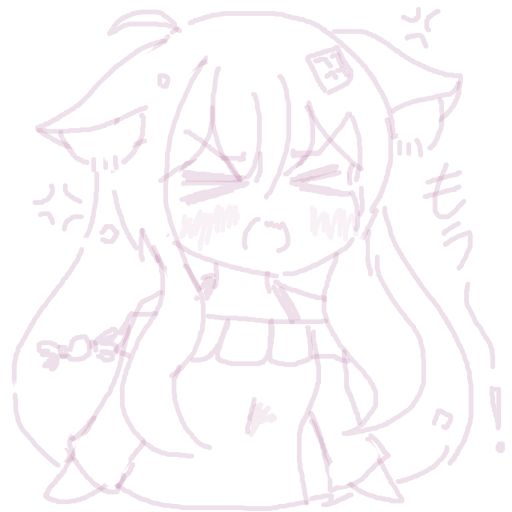
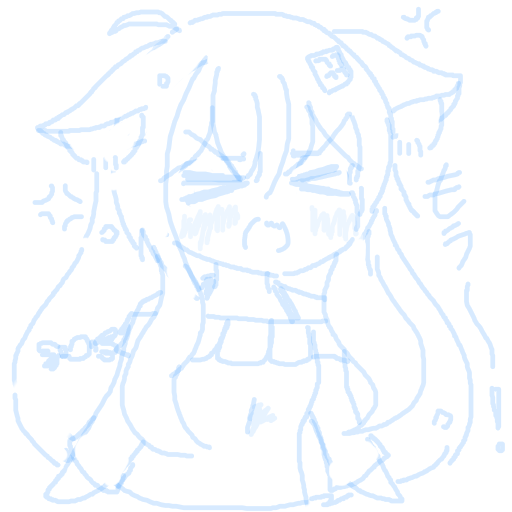
change everything to blue for no reason

diff --git a/src/styles/style.old.css b/src/styles/style.old.css
@@ -1,5 +1,16 @@
+@import url('https://fonts.googleapis.com/css2?family=Roboto:wght@100;300;500&display=swap');
+
+@font-face {
+    font-family: 'Yuruka';
+    src: local("FOT-Yuruka Std UB Black"), url('/Yuruka.ttf') format('truetype');
+}
+
 body, html {
+    background-color: #211a22;
+    background-image: linear-gradient(-225deg, #35243a, #1b171b);
+    color: #ffffff;
     min-height: 100vh;
+    font-family: 'MS PGothic', 'Roboto', sans-serif;
     padding: 0;
     margin: 0;
     box-sizing: border-box;
@@ -27,11 +38,16 @@ main {
 
 .box-container {
     z-index: 1;
+    border: #f0caf3 2px dotted;
+    background-color: #f0caf30f;
+    backdrop-filter: blur(5px);
     overflow: auto;
     padding: 0.5rem;
+    border-radius: 10px;
 
     /* firefox */
     @-moz-document url-prefix() {
+        scrollbar-color: #f0caf3 #362938;
         scrollbar-width: thin;
     }
 }
@@ -39,22 +55,27 @@ main {
 /* everyone else :P */
 ::-webkit-scrollbar {
     width: 0.5rem;
+    background-color: #dfe6e900;
 }
 
 
 ::-webkit-scrollbar-track {
     border-radius: 10px;
+    background-color: #00000000;
 }
 
 ::-webkit-scrollbar-thumb {
+    background-color: #f0caf344;
     border-radius: 10px;
 }
 
 ::-webkit-scrollbar-thumb:hover {
+    background-color: #f0caf388;
     border-radius: 10px;
 }
 
 ::-webkit-scrollbar-thumb:active {
+    background-color: #f0caf3ff;
     border-radius: 10px;
 }
 
@@ -90,16 +111,24 @@ main {
 #top-nav a {
     font-size: 1.6rem;
     padding: 0.2rem 0.4rem;
+    border: #f0caf3 1px dashed;
     text-decoration: none;
+    color: #f0caf3;
     max-height: 100%;
+    transition: font-size 0.2s;
 }
 
 #top-nav a:hover {
     font-size: 2.5rem;
+    background-color: #f0caf3;
+    color: #35243a;
+
 }
 
 #catchphrase {
+    font-family: 'Yuruka', 'MS PGothic', sans-serif;
     font-size: 0.8rem;
+    color: #726076
 }
 
 #ticker {
@@ -147,10 +176,12 @@ main {
 }
 
 .progress-border {
+    border: 1px solid #fcd4e0;
     border-radius: 5em;
 }
 
 .progress-bar {
+    background-color: #fcd4e060;
     border-radius: 5em;
     display: flex;
     justify-content: center;
@@ -160,6 +191,7 @@ main {
 
 #progress-placeholder-text {
     font-size: 0.6rem;
+    color: #fcd4e062;
 }
 
 .progress-below {
@@ -173,6 +205,7 @@ main {
 
 #contact a {
     text-decoration: none;
+    color: #ffe18f;
 }
 
 #contact a:hover {
@@ -180,8 +213,10 @@ main {
 }
 
 #commit a {
+    font-family: 'Roboto', 'MS PGothic', sans-serif;
     font-size: 1.5rem;
     font-weight: 600;
+    color: #f0caf3;
     text-decoration: none;
 }
 
@@ -193,8 +228,30 @@ main {
     font-size: 1rem;
 }
 
+#commit-date {
+    color: #b28eba
+}
+
+#commit~hr {
+    border: 1px dashed #b67dba;
+}
+
+#diff-add {
+    color: #3fb950;
+}
+
+#diff-del {
+    color: #f85149;
+}
+
+legend {
+    color: #f7ddf9;
+}
+
 textarea {
     white-space: normal;
+    background-color: #987f9b33;
+    color: #dcc5df;
     resize: none;
 }
 
@@ -210,6 +267,8 @@ textarea {
     width: 100%;
     height: 100%;
     overflow: auto;
+    background-color: #00000099;
+    backdrop-filter: blur(15px);
 }
 
 #mobile-modal {
@@ -225,6 +284,14 @@ textarea {
     overflow: auto;
     border-radius: 1em;
     padding: 1em;
+    box-shadow: 0 0 1em #fcd4e088;
+    background-color: #251723cc;
+}
+
+#ignore-mobile {
+    border: #fcd4e0 1px solid;
+    background-color: #fcd4e033;
+    padding: 0.4em;
 }
 
 #ignore-mobile-p {
@@ -239,11 +306,18 @@ textarea {
 
 #now-playing {
     display: none;
+
+    color: #ffe6f7;
+    text-shadow: 0 0 10px #fff, 0 0 20px #fff, 0 0 30px #e60073, 0 0 40px #e60073, 0 0 50px #e60073, 0 0 60px #e60073, 0 0 70px #e60073;
 }
 
 #now-playing-button {
     display: none;
     cursor: pointer;
+
+    background-color: #fcd4e022;
+    color: #ffe6f7;
+    border: #fcd4e0 1px solid;
     border-radius: 1em;
     padding: 0.5em;
     text-decoration: none;
@@ -265,6 +339,6 @@ textarea {
 }
 
 .placeholder p {
+    color: #bea2c1bb;
     text-align: center;
-}
 }

diff --git a/src/styles/theme.css b/src/styles/theme.css
@@ -1,0 +1,138 @@
+@import url('https://fonts.googleapis.com/css2?family=Roboto:wght@100;300;500&display=swap');
+
+@font-face {
+    font-family: 'Yuruka';
+    src: local("FOT-Yuruka Std UB Black"), url('/Yuruka.ttf') format('truetype');
+}
+
+body, html {
+    background-color: #030109;
+    background-image: linear-gradient(-225deg, #1e293b, #030109);
+    color: #ffffff;
+    font-family: 'MS PGothic', 'Roboto', sans-serif;
+}
+
+.box-container {
+    border: #a4d3ff 2px dotted;
+    background-color: #a4d3ff0f;
+    backdrop-filter: blur(5px);
+    border-radius: 10px;
+
+    /* firefox */
+    @-moz-document url-prefix() {
+        scrollbar-color: #a4d3ff #131b2e;
+    }
+}
+
+/* everyone else :P */
+::-webkit-scrollbar {
+    background-color: #dfe6e900;
+}
+
+::-webkit-scrollbar-track {
+    background-color: #00000000;
+}
+
+::-webkit-scrollbar-thumb {
+    background-color: #a4d3ff44;
+}
+
+::-webkit-scrollbar-thumb:hover {
+    background-color: #a4d3ff88;
+}
+
+::-webkit-scrollbar-thumb:active {
+    background-color: #a4d3ffff;
+}
+
+#top-nav a {
+    border: #a4d3ff 1px dashed;
+    color: #a4d3ff;
+    transition: font-size 0.2s;
+}
+
+#top-nav a:hover {
+    background-color: #a4d3ff;
+    color: #0b1121;
+}
+
+#catchphrase {
+    font-family: 'Yuruka', 'MS PGothic', sans-serif;
+    color: #64748b;
+}
+
+.progress-border {
+    border: 1px solid #7fb9ff;
+}
+
+.progress-bar {
+    background-color: #7fb9ff60;
+}
+
+#progress-placeholder-text {
+    color: #7fb9ff62;
+}
+
+#contact a {
+    color: #ffe18f;
+}
+
+#commit a {
+    font-family: 'Roboto', 'MS PGothic', sans-serif;
+    color: #a4d3ff;
+}
+
+#commit-date {
+    color: #64748b;
+}
+
+#commit~hr {
+    border: 1px dashed #2b4291;
+}
+
+#diff-add {
+    color: #3fb950;
+}
+
+#diff-del {
+    color: #f85149;
+}
+
+legend {
+    color: #cbd5e1;
+}
+
+textarea {
+    background-color: #2b429133;
+    color: #bae6fd;
+}
+
+#mobile-modal-container {
+    background-color: #00000099;
+    backdrop-filter: blur(15px);
+}
+
+#mobile-modal {
+    box-shadow: 0 0 1em #7fb9ff88;
+    background-color: #0f172acc;
+}
+
+#ignore-mobile {
+    border: #7fb9ff 1px solid;
+    background-color: #7fb9ff33;
+}
+
+#now-playing {
+    color: #e0f2fe;
+    text-shadow: 0 0 10px #fff, 0 0 20px #fff, 0 0 30px #0ea5e9, 0 0 40px #0ea5e9, 0 0 50px #0ea5e9, 0 0 60px #0ea5e9, 0 0 70px #0ea5e9;
+}
+
+#now-playing-button {
+    background-color: #7fb9ff22;
+    color: #e0f2fe;
+    border: #7fb9ff 1px solid;
+}
+
+.placeholder p {
+    color: #94a3b8bb;
+}

diff --git a/src/styles/cursor-circle.css b/src/styles/cursor-circle.css
@@ -1,7 +1,7 @@
 .circle {
   z-index: 99;
 	position: absolute;
-    border: solid 2px #f4d5f699;
+    border: solid 2px #d5dcf699;
 	width: 2em; 
 	height: 2em; 
     border-radius: 50%; 
@@ -13,7 +13,7 @@
     position: absolute;
     width: 100px;
     height: 100px;
-    background: #a966ae4f;
+    background: #6679ae4f;
     border-radius: 50%;
     transform: scale(0);
     animation: ripple-animation 1s ease-out;
@@ -33,13 +33,13 @@
 @keyframes circle-shrink {
     0% {
       transform: scale(1);
-      background-color: #f4d5f699
+      background-color: #d5def699
     }
     50% {
       transform: scale(0.8);
     }
     100% {
       transform: scale(1);
-      background-color: #f4d5f600;
+      background-color: #d5ddf600;
     }
 }
